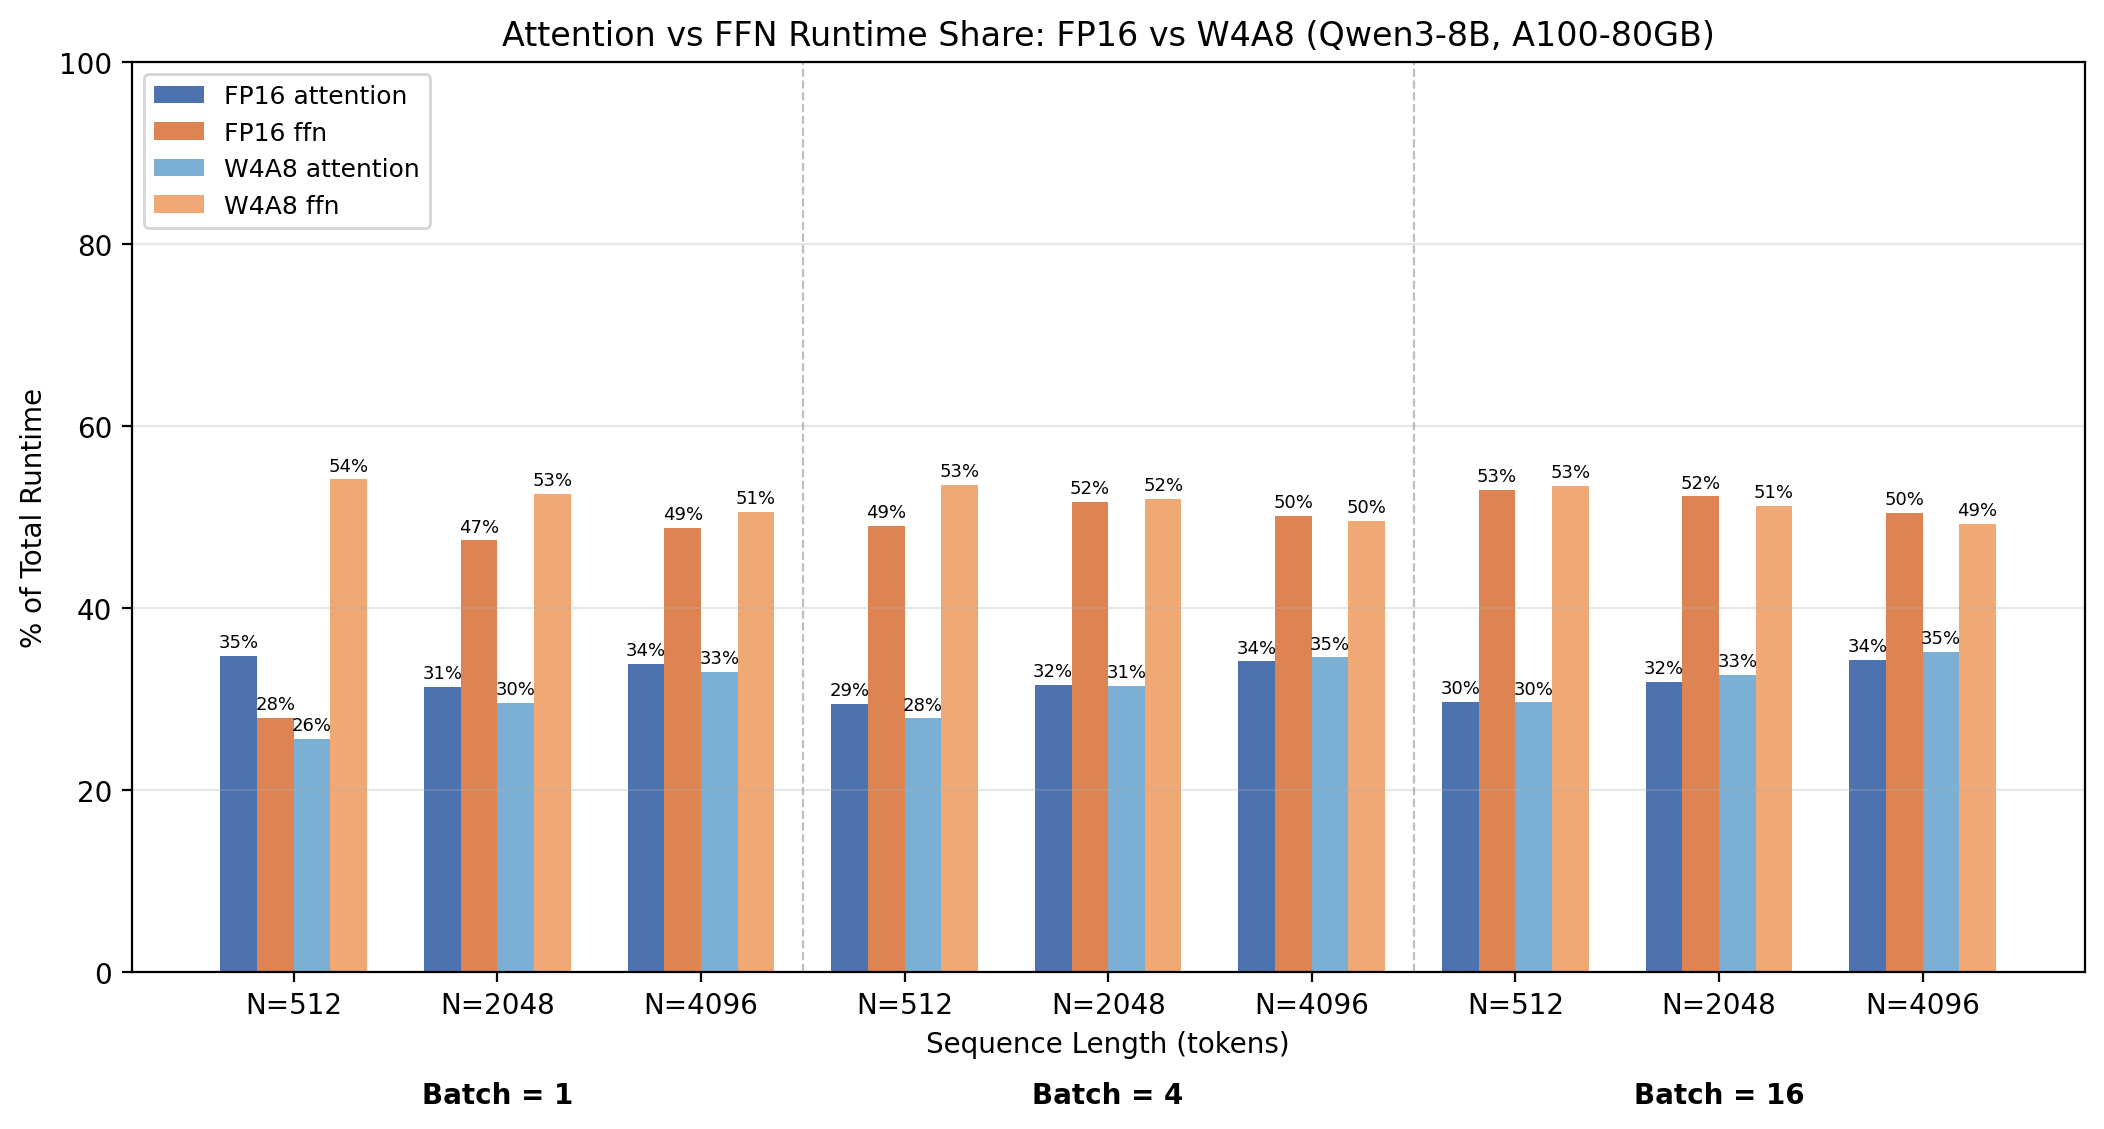
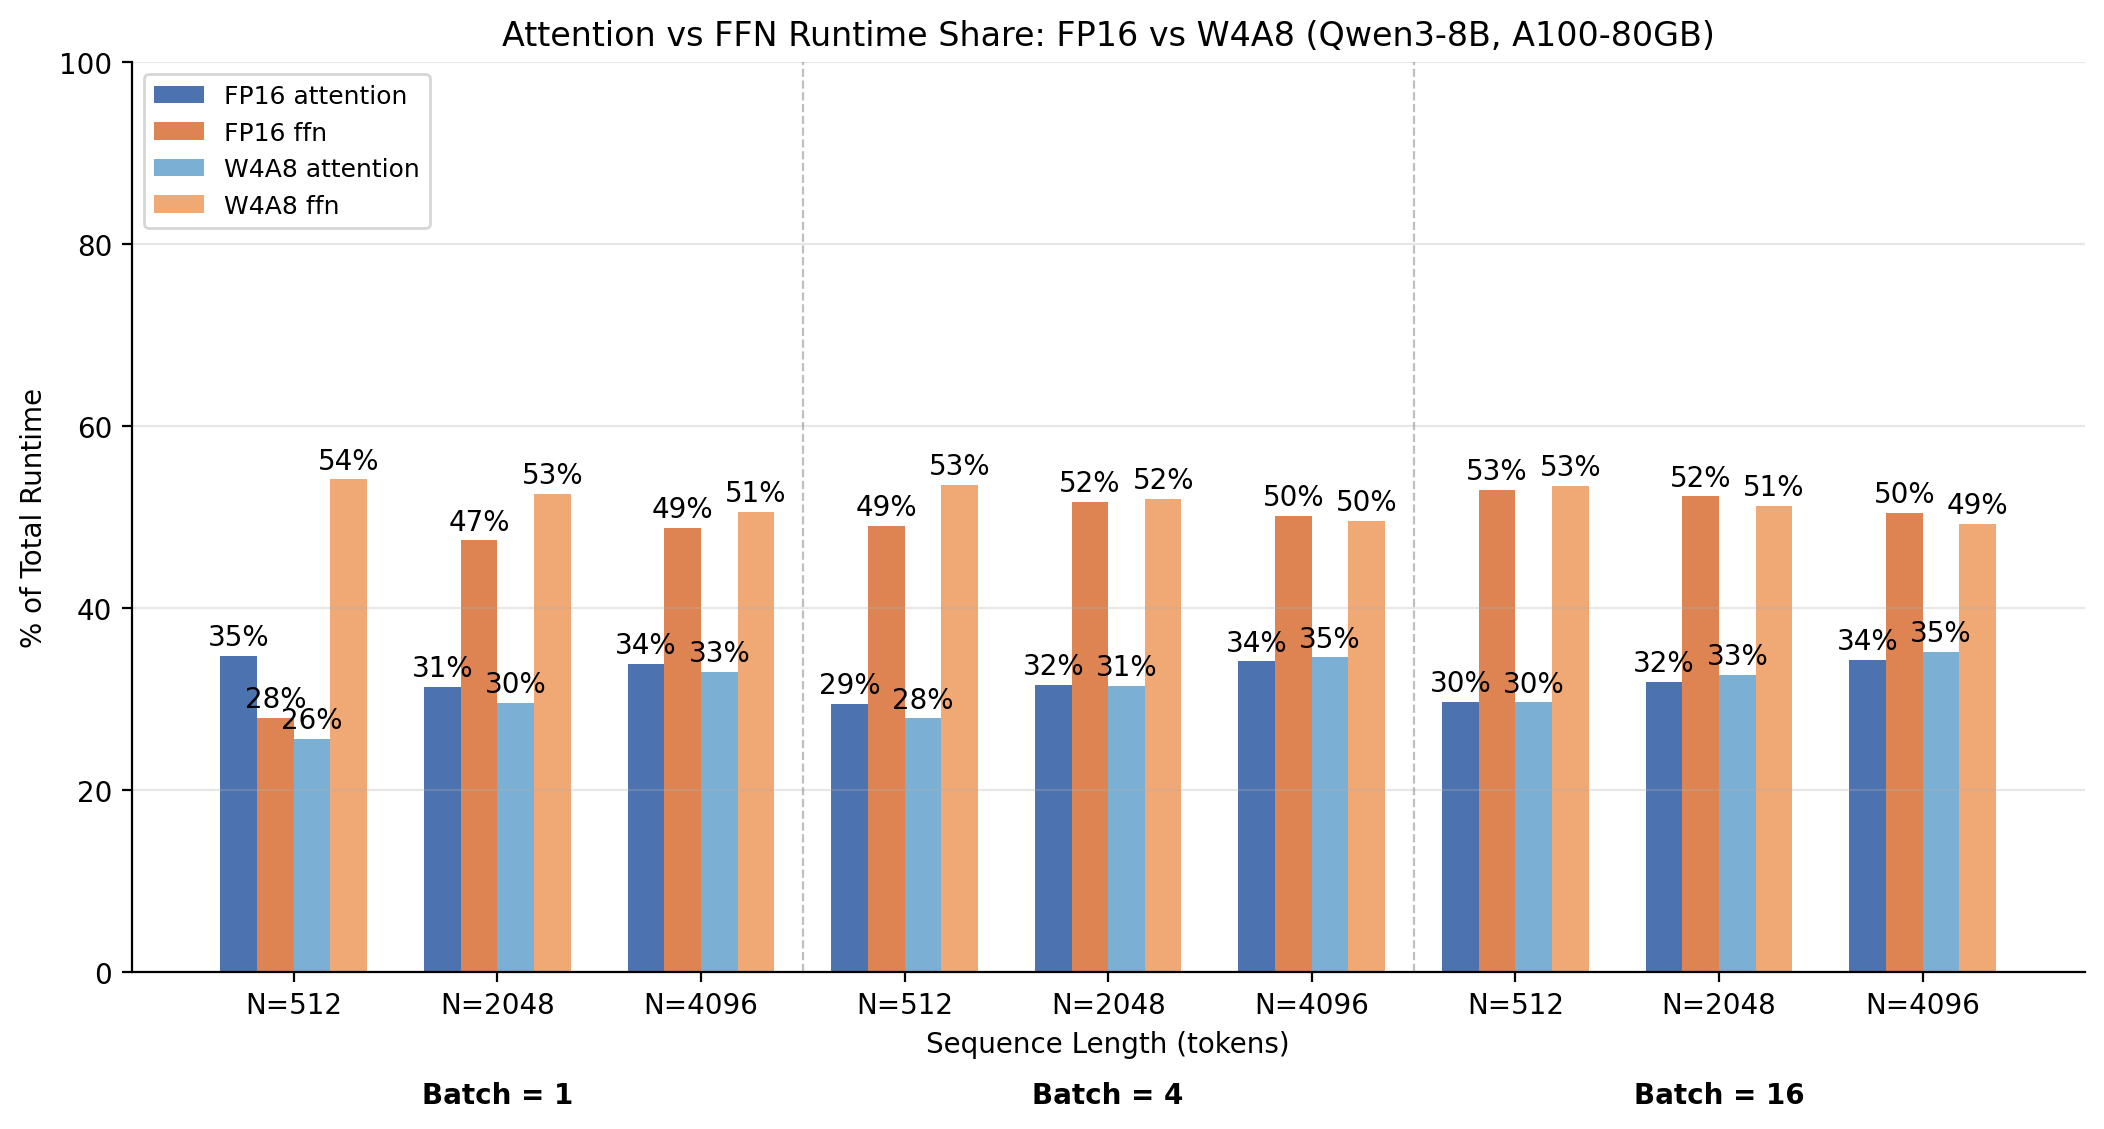
Update figures to be more readable and log scale on latency chart

diff --git a/weight_quant/analyze_weight_quant.py b/weight_quant/analyze_weight_quant.py
@@ -81,7 +81,7 @@ def plot_bottleneck_shift(df, output_dir):
                         ax.text(bar.get_x() + bar.get_width() / 2,
                                 bar.get_height() + 0.5,
                                 f"{v:.0f}%", ha="center", va="bottom",
-                                fontsize=6.5, color="black")
+                                fontsize=10, color="black")
                 i += 1
 
     _add_batch_dividers(ax, pivot.index, x)
@@ -93,6 +93,8 @@ def plot_bottleneck_shift(df, output_dir):
     ax.set_xticklabels(labels)
     ax.legend(loc="upper left", fontsize=9)
     ax.set_ylim(0, 100)
+    ax.spines['top'].set_visible(False)
+    ax.spines['right'].set_visible(False)
     ax.grid(axis="y", alpha=0.3)
     fig.subplots_adjust(bottom=0.18)
 
@@ -132,7 +134,7 @@ def plot_latency(df, output_dir):
                 sign = "+" if change > 0 else ""
                 ax.text(x[idx], taller + taller * 0.02,
                         f"{sign}{change:.1f}%", ha="center", va="bottom",
-                        fontsize=7, fontweight="bold", color=color)
+                        fontsize=11, fontweight="bold", color=color)
 
     _add_batch_dividers(ax, pivot.index, x)
 
@@ -142,6 +144,9 @@ def plot_latency(df, output_dir):
     ax.set_xticks(x)
     ax.set_xticklabels(labels)
     ax.legend()
+    ax.set_yscale('log')
+    ax.spines['top'].set_visible(False)
+    ax.spines['right'].set_visible(False)
     ax.grid(axis="y", alpha=0.3)
     fig.subplots_adjust(bottom=0.18)
 
@@ -185,7 +190,7 @@ def plot_memory(df, output_dir):
                 sign = "+" if change > 0 else ""
                 ax.text(x[idx], taller + taller * 0.02,
                         f"{sign}{change:.1f}%", ha="center", va="bottom",
-                        fontsize=7, fontweight="bold", color=color)
+                        fontsize=11, fontweight="bold", color=color)
 
     _add_batch_dividers(ax, pivot.index, x)
 
@@ -195,6 +200,8 @@ def plot_memory(df, output_dir):
     ax.set_xticks(x)
     ax.set_xticklabels(labels)
     ax.legend()
+    ax.spines['top'].set_visible(False)
+    ax.spines['right'].set_visible(False)
     ax.grid(axis="y", alpha=0.3)
     fig.subplots_adjust(bottom=0.18)
 
